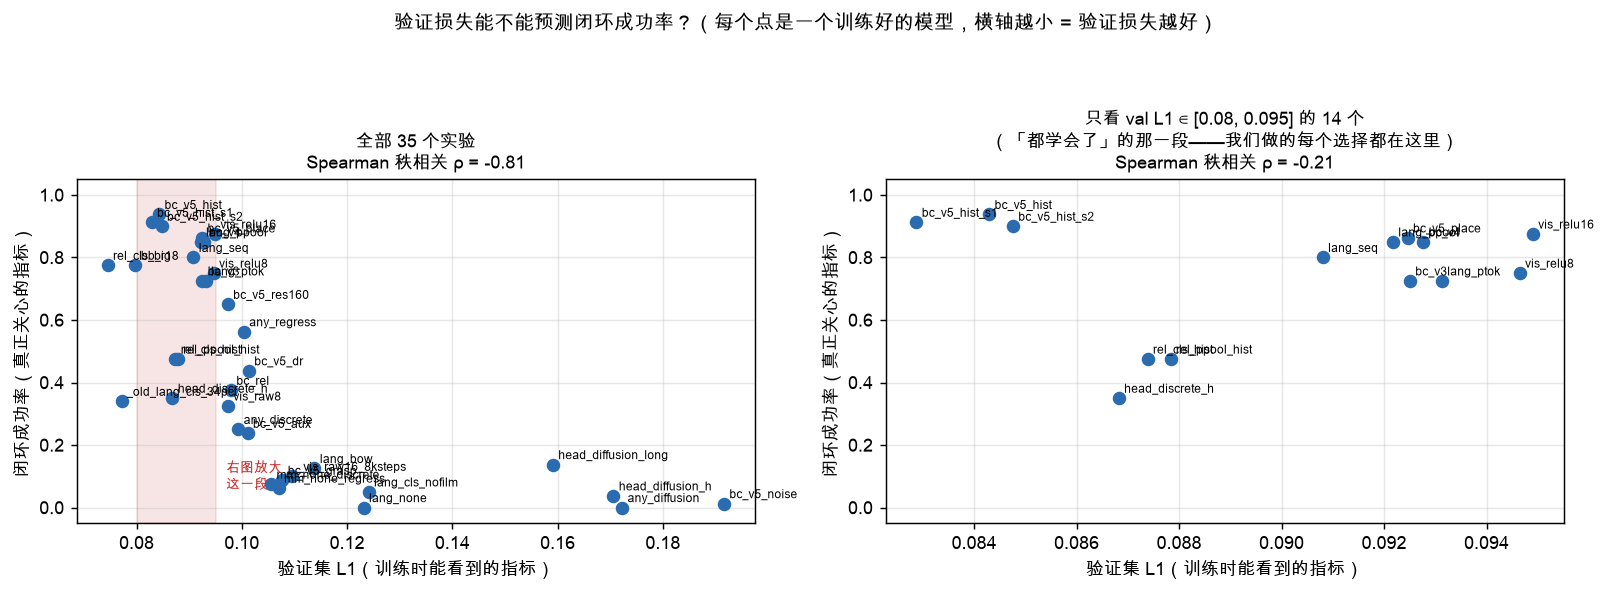
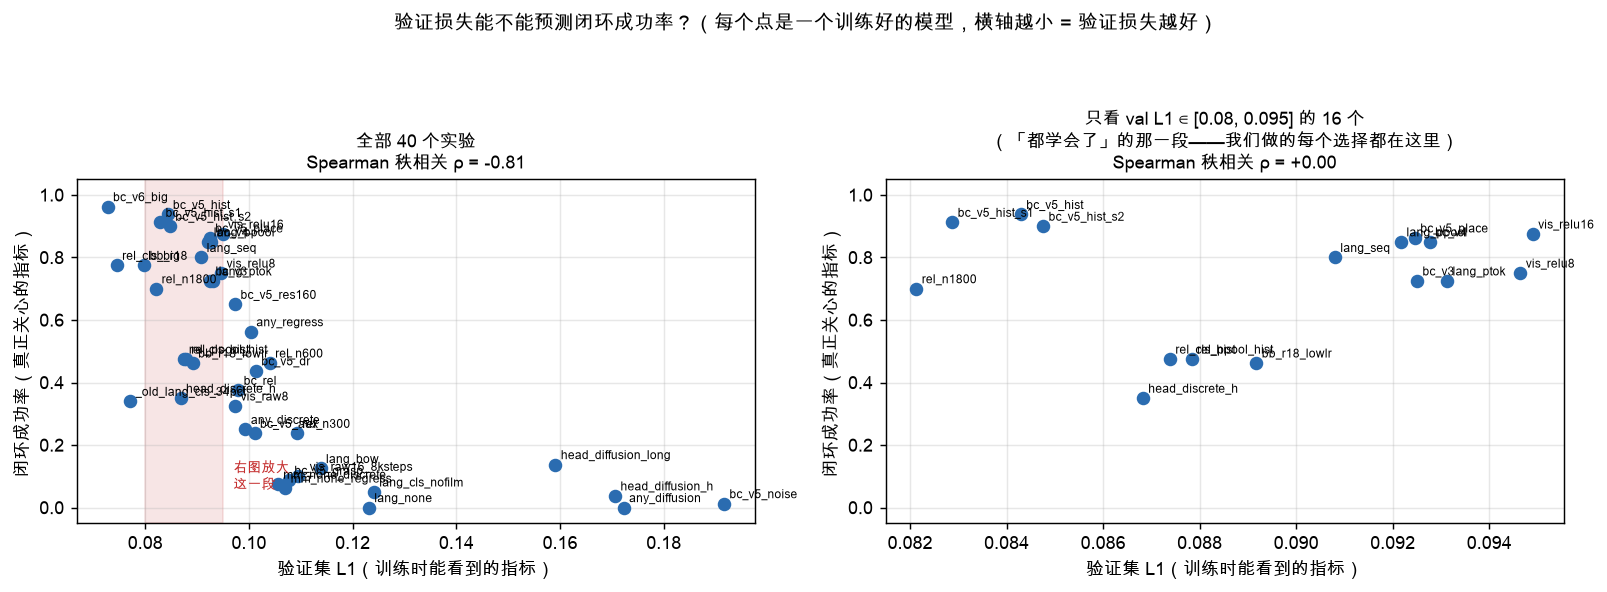
Val-loss band correlation drops to 0.00 with 16 runs; the best val L1 ranks fifth in closed loop

diff --git a/notes/21-验证损失到底能不能用.md b/notes/21-验证损失到底能不能用.md
@@ -9,7 +9,7 @@
 **这个说法太粗了。**把 `runs/` 下**所有** 33 个有闭环评测的实验拿出来一起看：
 
 ```
-全部 33 个实验：            Spearman ρ = −0.82
+全部 37 个实验：            Spearman ρ = −0.83
 ```
 
 **−0.82 是很强的相关。**验证损失确实能预测闭环成功率——
@@ -21,9 +21,11 @@ val L1 从 0.084 到 0.19 这个范围里，它几乎单调地对应成功率从
 
 | 范围 | 实验数 | Spearman ρ | 成功率跨度 |
 |---|---|---|---|
-| 全部 | 33 | **−0.82** | 0%–94% |
-| val L1 ∈ [0.080, 0.102] | 21 | −0.61 | 24%–94% |
-| **val L1 ∈ [0.080, 0.095]** | **14** | **−0.21** | **35%–94%** |
+| 全部 | 37 | **−0.83** | 0%–96% |
+| **val L1 ∈ [0.080, 0.095]** | **16** | **+0.00** | **35%–94%** |
+
+（这一页最早写的时候是 33 个实验、窄带 14 个、ρ=−0.21；
+后来又跑了 4 个实验，窄带里的相关**掉到了 0.00**——结论只有变得更硬。）
 
 在最后这一段里，验证损失只差 0.015（相对差 18%），**成功率却横跨 35% 到 94%**，
 而秩相关掉到 −0.21——基本没有分辨力。
@@ -31,12 +33,16 @@ val L1 从 0.084 到 0.19 这个范围里，它几乎单调地对应成功率从
 具体几个：
 
 ```
+bb_r18            val L1 0.0798   成功率 77.5%     ← val L1 最好的一个，闭环排第五
 bc_v5_hist        val L1 0.0843   成功率 93.8%
-head_discrete_h   val L1 0.0868   成功率 35.0%     ← 差 0.0025，闭环差 59 个百分点
+head_discrete_h   val L1 0.0868   成功率 35.0%     ← 和上一行差 0.0025，闭环差 59 个百分点
 rel_cls_hist      val L1 0.0874   成功率 47.5%
+bb_r18_lowlr      val L1 0.0892   成功率 46.2%
 lang_seq          val L1 0.0908   成功率 80.0%
 vis_relu16        val L1 0.0949   成功率 87.5%     ← val L1 最差的一个，闭环第二好
 ```
+
+**在这一段里，val L1 最好的那个模型（预训练 ResNet18，0.0798）闭环只排第五。**
 
 ## 正确的说法
 

diff --git a/docs/SUMMARY.md b/docs/SUMMARY.md
@@ -1,4 +1,4 @@
-# StarVLA 实验总结（2026-08-25 13:02）
+# StarVLA 实验总结（2026-08-25 18:50）
 
 ## 基线
 
@@ -51,6 +51,7 @@
 
 | A | B | 局数 | A 成功率 | B 成功率 | 只有 A | 只有 B | p | 结论 |
 |---|---|---|---|---|---|---|---|---|
+| `bc_v6_big` | `bc_v5_hist` | 200 | 93.5% | 91.0% | 13 | 8 | 0.383 | 看不出差别 |
 | `bc_v5_hist` | `bc_v5_place` | 200 | 91.0% | 84.0% | 26 | 12 | 0.034 | **A 显著更好** |
 
 注意：上面那张 80 局的表里 p 值普遍偏大，不是因为改动无效，而是**样本量不够**。同一个改动 n=80 时 p=0.18、n=200 时 p=0.034。
